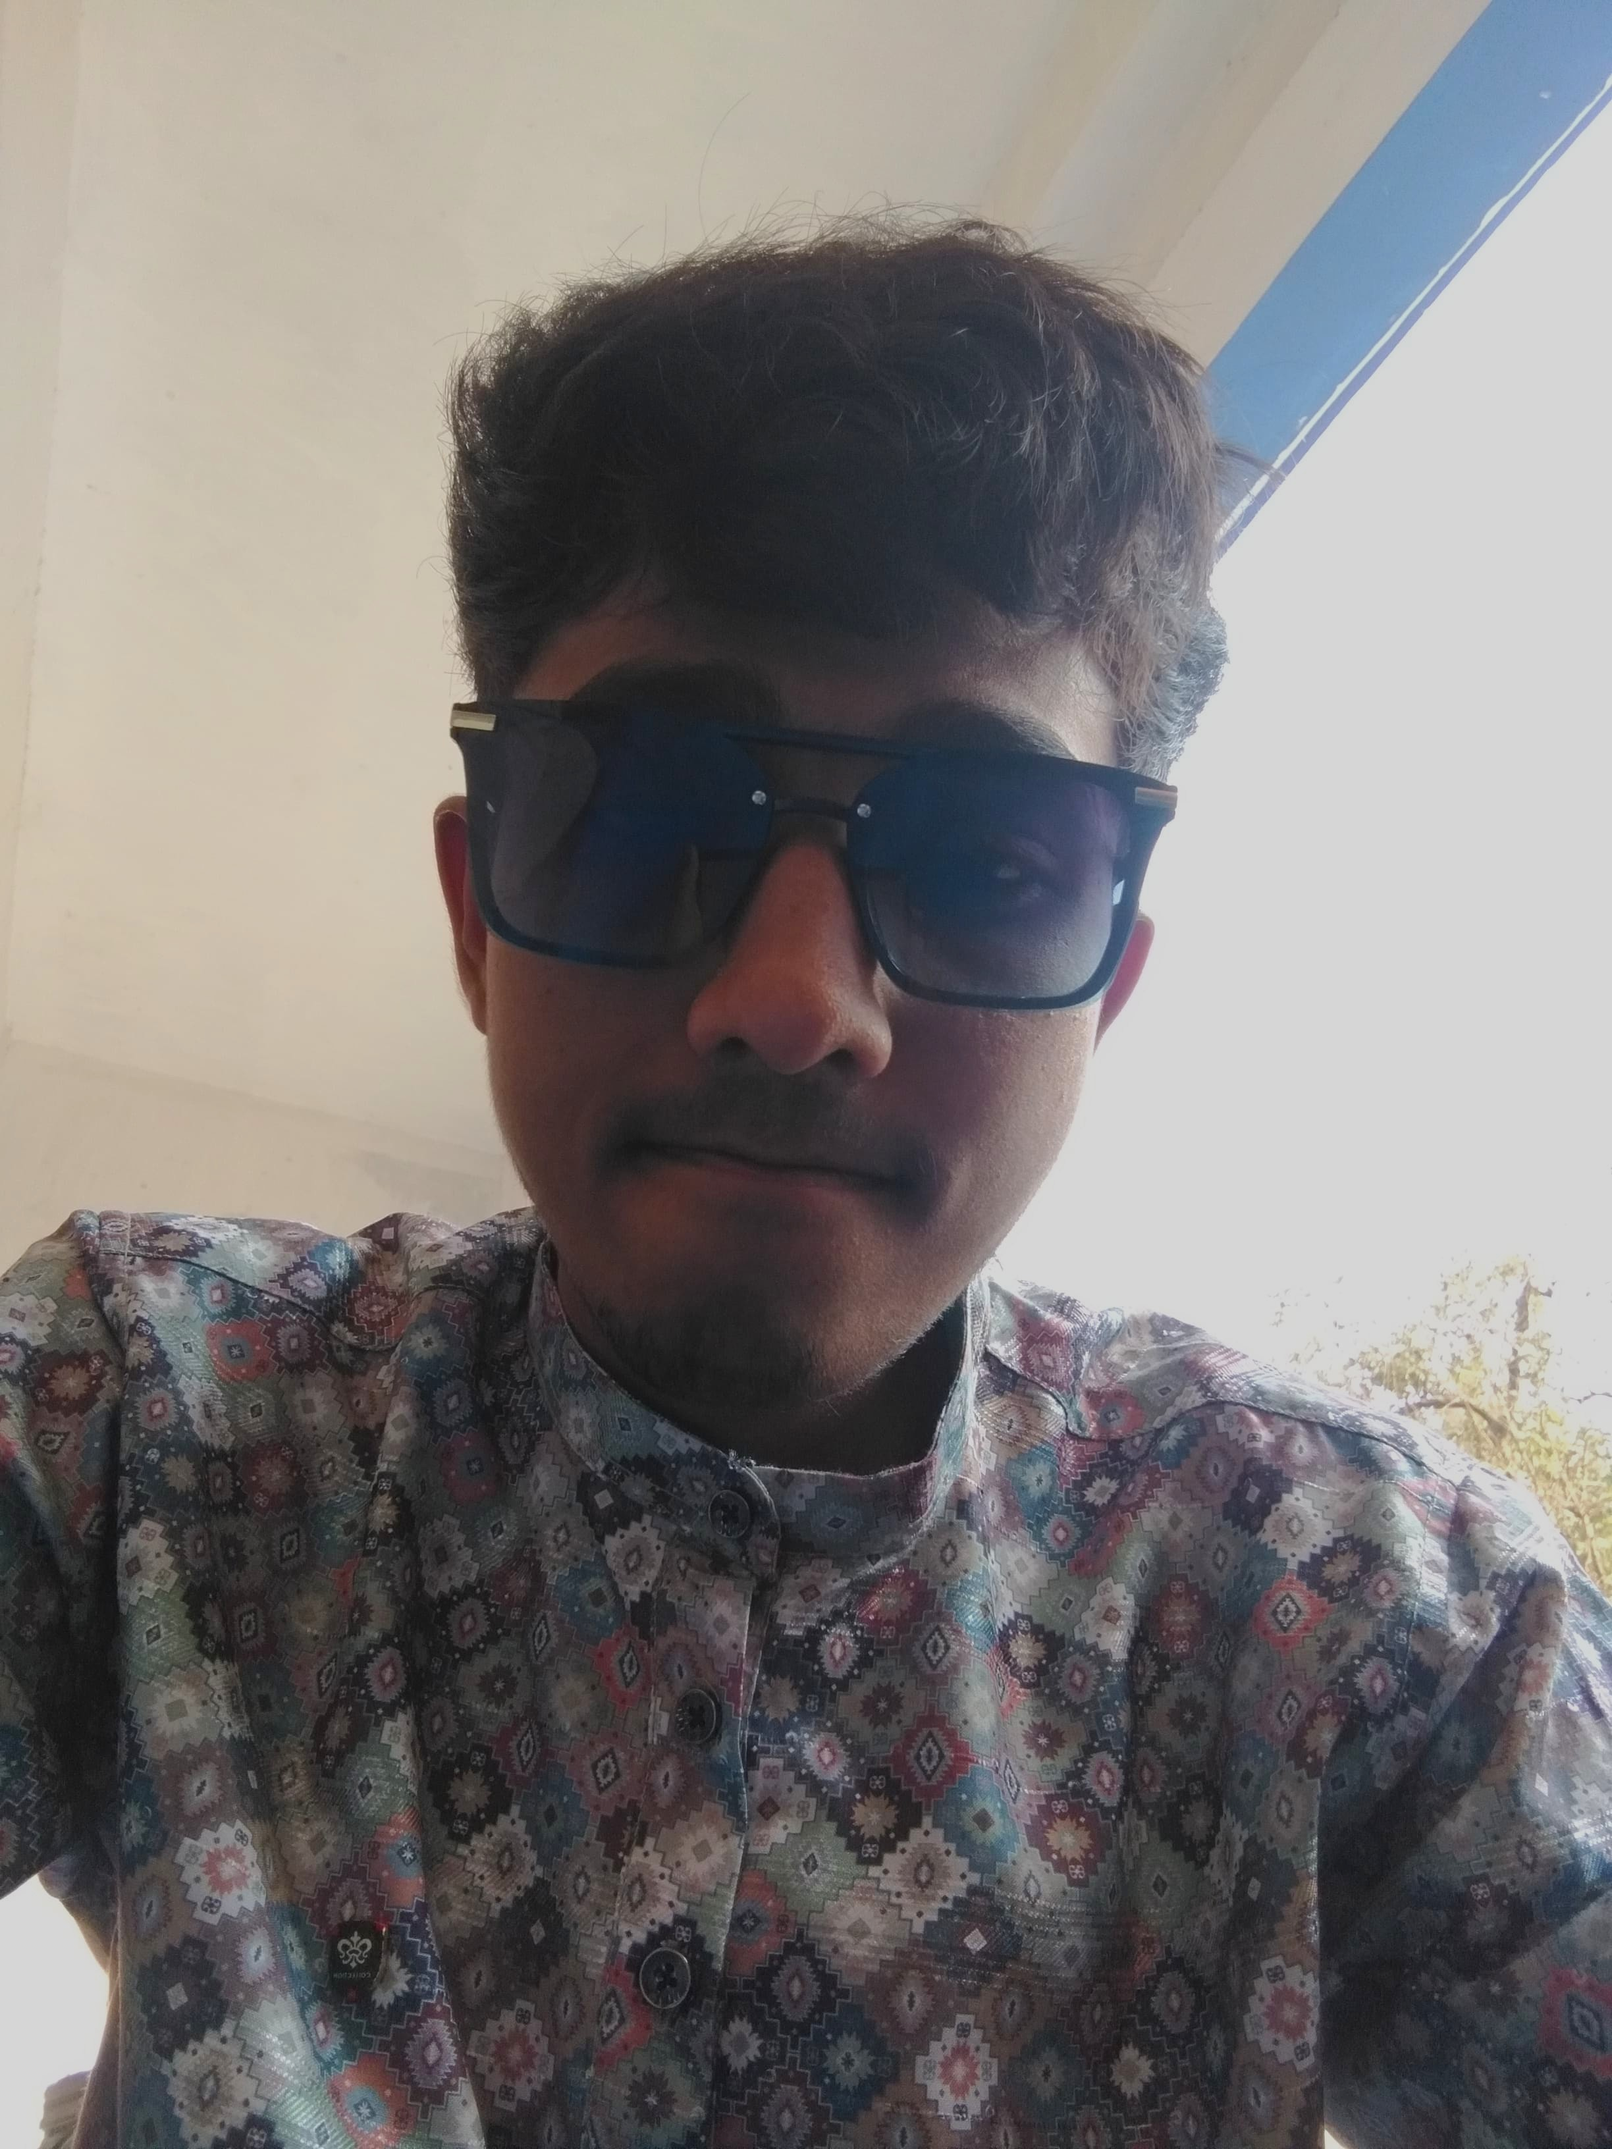
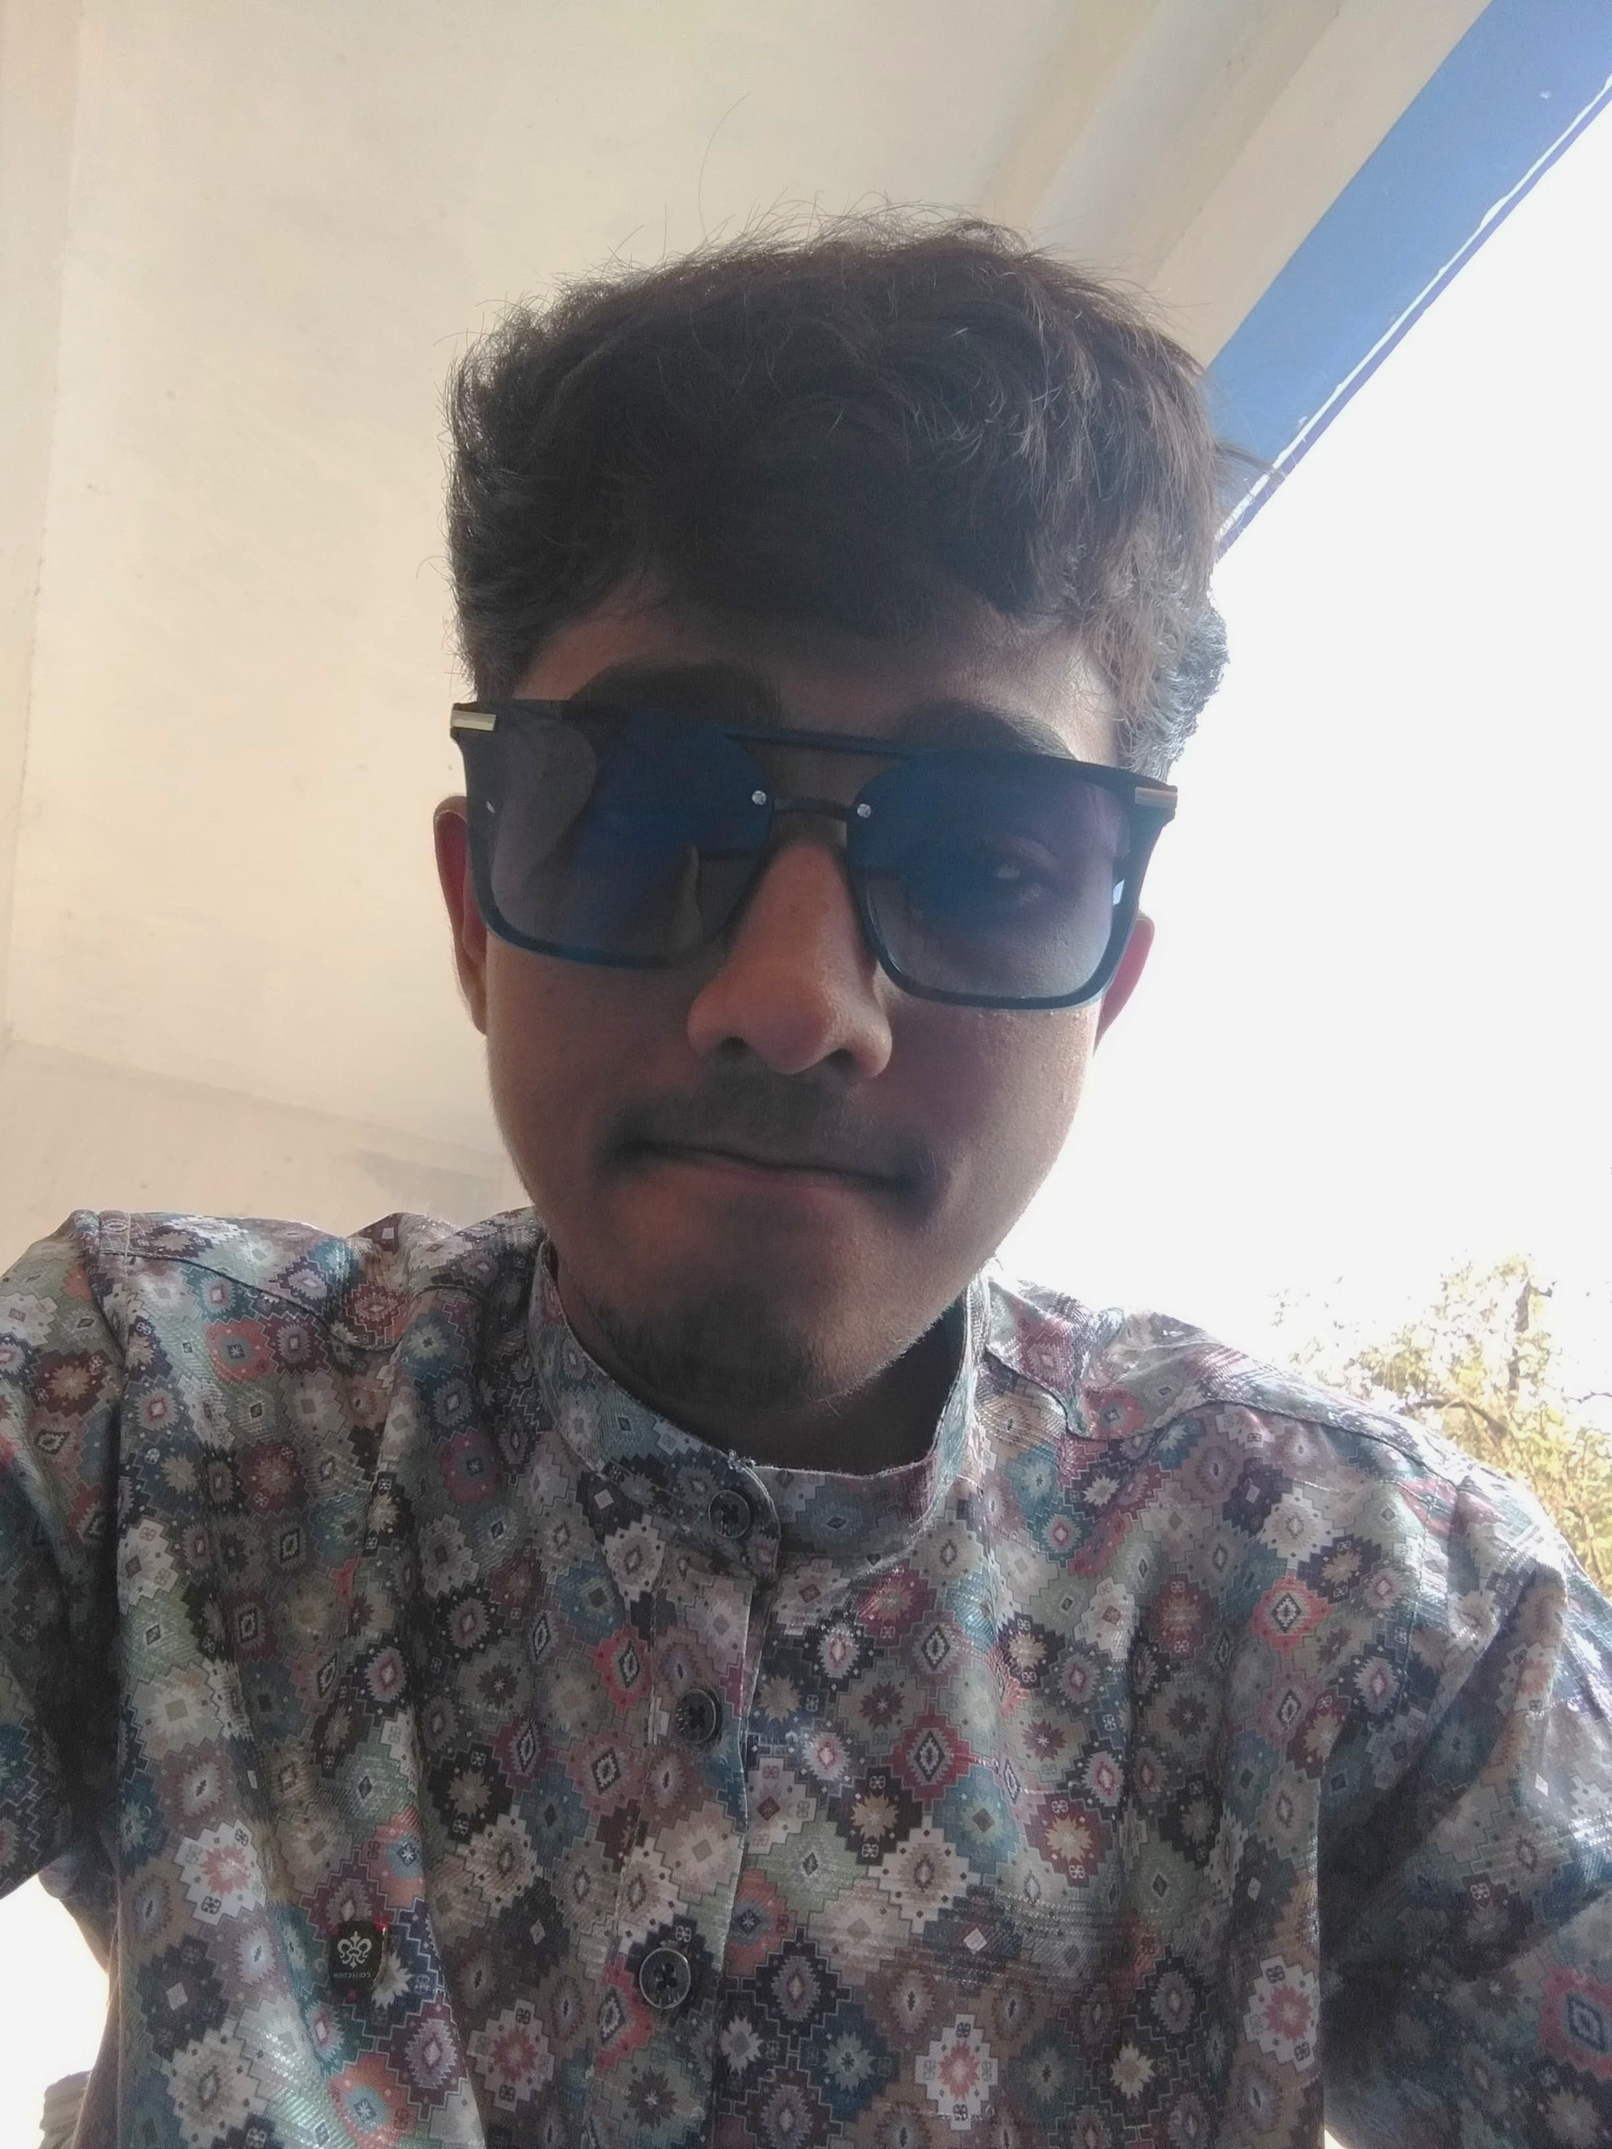
fix: countdown timer, add notes, update profile img

diff --git a/src/components/sections/MomentCard.jsx b/src/components/sections/MomentCard.jsx
@@ -21,11 +21,11 @@ const EventCard = ({ event, onClick }) => {
         }}
       >
         {/* Background Texture Layers */}
-        <div className="absolute inset-0 bg-[#f9f5eb]" style={{ backgroundImage: "url('https://www.transparenttextures.com/patterns/cream-paper.png')" }}></div>
+        <div className="absolute inset-0 bg-white" style={{ backgroundImage: "url('https://www.transparenttextures.com/patterns/rice-paper.png')" }}></div>
         
         {/* Ruled lines overlay */}
         <div 
-          className="absolute inset-0 opacity-30 pointer-events-none"
+          className="absolute inset-0 opacity-40 pointer-events-none"
           style={{
              backgroundImage: "repeating-linear-gradient(transparent, transparent 27px, #6098cc 27px, #6098cc 28px)",
              backgroundSize: "100% 28px",
@@ -34,11 +34,11 @@ const EventCard = ({ event, onClick }) => {
         ></div>
 
         {/* Red vertical margin line for classical notebook effect */}
-        <div className="absolute left-8 top-0 bottom-0 w-[1px] bg-red-800/20 pointer-events-none"></div>
-        <div className="absolute left-[34px] top-0 bottom-0 w-[1px] bg-red-800/10 pointer-events-none"></div>
+        <div className="absolute left-8 top-0 bottom-0 w-[1px] bg-red-800/30 pointer-events-none"></div>
+        <div className="absolute left-[34px] top-0 bottom-0 w-[1px] bg-red-800/20 pointer-events-none"></div>
 
         {/* Vintage Round Stamp (e.g. for Category) */}
-        <div className="absolute -top-3 -right-3 w-[72px] h-[72px] border-[2.5px] border-red-800/40 rounded-full flex items-center justify-center rotate-[-15deg] z-20 mix-blend-multiply opacity-80 shadow-sm pointer-events-none">
+        <div className="absolute -top-3 -right-3 w-[72px] h-[72px] border-[2.5px] border-red-800/40 rounded-full flex items-center justify-center rotate-[-15deg] z-20 mix-blend-multiply opacity-90 shadow-sm pointer-events-none">
            <div className="border-[1.5px] border-dashed border-red-800/40 rounded-full w-[60px] h-[60px] flex items-center justify-center text-center leading-none">
              <span className="text-[10px] font-bold text-red-800/60 uppercase tracking-tighter block mt-0.5">
                MCET<br/>{event.category?.substring(0, 8)}<br/>★
@@ -61,7 +61,7 @@ const EventCard = ({ event, onClick }) => {
             {/* The Image */}
             <div className="overflow-hidden">
                <div 
-                 className="w-full aspect-[16/9] bg-cover bg-center border border-black/10 sepia-[0.15] transition-transform duration-700 group-hover:scale-[1.05] group-hover:sepia-0"
+                 className="w-full sm:w-[90%] aspect-[16/9] bg-cover bg-center border border-black/10 sepia-[0.15] transition-transform duration-700 group-hover:scale-[1.05] group-hover:sepia-0"
                  style={{ backgroundImage: (event.gallery[0]?.startsWith('http') || event.gallery[0]?.startsWith('/')) ? `url('${event.gallery[0]}')` : (event.gallery[0] || 'linear-gradient(to bottom, #d4a373, #faedcd)') }}
                >
                   <div className="w-full h-full bg-[#3e2723]/10 mix-blend-multiply transition-opacity duration-500 group-hover:opacity-0"></div>
@@ -80,7 +80,7 @@ const EventCard = ({ event, onClick }) => {
           </h3>
           
           {/* Metadata: Date & People tagged */}
-          <div className="flex flex-wrap items-center gap-x-4 gap-y-2 text-[9px] text-[#786b5b] font-sans tracking-[0.15em] font-bold uppercase mb-2 mt-1">
+          <div className="flex flex-wrap items-center gap-x-4 gap-y-2 text-[10px] text-[#786b5b] font-sans tracking-[0.15em] font-bold uppercase mb-2 mt-1">
               <span className="flex items-center gap-1.5 bg-[#f0eadd] px-2 py-0.5 rounded-sm"><Calendar size={11} className="text-red-800/60" /> {event.date}</span>
               {event.taggedPeople?.length > 0 && (
                 <span className="flex items-center gap-1.5 bg-[#f0eadd] px-2 py-0.5 rounded-sm"><Users size={11} className="text-indigo-800/60" /> {event.taggedPeople.length}</span>
@@ -88,7 +88,7 @@ const EventCard = ({ event, onClick }) => {
           </div>
           
           {/* Description */}
-          <p className="font-['Caveat'] text-[1.4rem] text-[#332b21] leading-[28px] opacity-95 flex-grow line-clamp-3 my-2 pt-1">
+          <p className="font-['Caveat'] text-2xl text-[#332b21] leading-[28px] opacity-95 flex-grow line-clamp-3 my-2 pt-1">
             {event.description}
           </p>
 

diff --git a/src/data/notes.js b/src/data/notes.js
@@ -1,50 +1,57 @@
 export const memoriesData = [
     {
       id: 1,
-      author: "Soumyajit",
-      content: "Came here chasing degrees, but leaving with memories. 'Moments never returns' - but somewhere in those fleeting days of college and hostel life, I discovered parts of me I didn’t know existed. Wherever life takes me next, a part of me will always stay back here, for sure... 💞",
+      author: "Soumyajit🫥",
+      content: "How lucky I am to have something that makes saying goodbye this hard! Thank you for every moment, every memory. Wherever life takes you, stay well!...To y'all - 'I love you 3000'.  🌻",
       image: "",
       timestamp: "2026-01-28T17:26:00Z",
     },
     {
       id: 2,
-      author: "Anoushka",
+      author: "Anoushka✨",
       content: "Different journeys, shared time - wishing everyone the best ahead! 😇",
       image: "",
       timestamp: "2026-04-02T23:05:00Z",
     },
     {
       id: 3,
-      author: "Bapi",
+      author: "Bapi🧩",
       content: "Can’t believe these 4 years went by so fast… hostel life with you guys was honestly the best time of my life. All the late-night talks, fun, and crazy memories—I’m really going to miss everything. You guys are not just friends, you’re like family to me. No matter where we go, these memories will always stay with me. Stay in touch always, love you all 💙",
       image: "",
       timestamp: "2026-04-04T20:28:00Z",
     },
     {
       id: 4,
-      author: "Srija",
+      author: "Srija📚",
       content: "Four years, countless memory, endless laughter... wishing us the success we deserve as we step into the new chapter. 🌟",
       image: "",
       timestamp: "2026-04-04T20:28:00Z",
     },
     {
       id: 5,
-      author: "Nurful",
+      author: "Nurful🧑💻",
       content: "As our journey at MCET in the Computer Science & Engineering department comes to an end, we carry with us countless memories that will last a lifetime. From late-night coding sessions and project deadlines to friendships, laughter, and unforgettable moments, these years have shaped who we are today. Though we step into new paths and challenges, the bond we’ve built here will always remain strong. MCET will forever hold a special place in our hearts. Thank you for the memories, the lessons, and the journey. Farewell to a chapter.🫡",
       image: "",
       timestamp: "2026-04-05T18:33:00Z",
     },
     {
       id: 6,
-      author: "Priyobroto",
+      author: "Priyobroto🤓",
       content: "My life at MCET was full of unforgettable memories. I deeply miss my friends—the laughter, the stress, and those crazy exam days. They stood beside me, helped me through backlogs, and even in those risky cheating moments. We survived everything together. Now, those days are gone, but the bond and memories still stay in my heart forever. ❤",
       image: "",
       timestamp: "2026-04-05T18:36:00Z",
     },
     {
       id: 7,
-      author: "Shirsendu",
+      author: "Shirsendu😎",
       content: "College life isn’t just about classes—it’s about the memories we create in between. Friends become family, turning ordinary days into unforgettable stories. In the end, it’s the laughter, chaos, and togetherness that we carry forever. 🤟🏻",
+      image: "",
+      timestamp: "2026-04-05T23:26:00Z",
+    },
+    {
+      id: 8,
+      author: "Kriti🌸",
+      content: "'Kuch logon ke sath sirf waqt bitane se hi...sab thik ho jata hain' - here's to the people and place that has filled my cup✨",
       image: "",
       timestamp: "2026-04-05T23:26:00Z",
     },

diff --git a/src/data/phoenix.js b/src/data/phoenix.js
@@ -44,23 +44,14 @@ export const phoenixData = {
       author: "Subhodeep Chakraborty",
       content: [
         "শুনলাম তারা তোমায় নাকি সন্মান দেবে?",
-
         "সে দিক তাতে ভালোই হবে, তাদের এতদিন পর মনে পড়েছে দেশবাসীর প্রাণে সুভাষ রয়েছে।",
-
         "তোমায় নিয়ে চলছে এখন ভীষণ রাজনীতি, ভাবিনি এদেশ করবে তোমার এমন পরিণতি।",
-
         "এ বলে নেতাজি আমার দলের তো ও বলে আমার, রাজনীতিতে ভুলেই গেছে নেতাজি তো সবার।",
-
         "স্বাধীনতা তুমি এনেছো দেশে দেশ মা আজ তোমায় ডাকছে ভালোবেসে, ফিরবে তুমি এদেশেতেই মনেতে আশা রাখি তুমি তো নেতাজী, জানি তুমি দেবে না মোদের ফাঁকি।",
-
         "বাড়িতে বাড়িতে সবাই নেতা কেও রাম তো কেও ফুলে পোতা মুখেই তাদের বড়ো বড়ো কথা কাজের বেলায় তারাই লাপাতা।",
-
         "সাহস এদের একদমই নেই শুধুই আছে ভাষণ এরা নাকি সব নেতা মন্ত্রী এরা করছে দেশ শাসন।",
-
         "তুমি নাকি এদের দলের, শুনলেও হাসি পায় আরে নেতাজি হতে গেলে সাহস লাগে রে ভাই।",
-
         "স্বাধীন হয়েও পরাধীন এদেশ ভুলেছে স্বাধীনতার স্বাদ জানি তুমি আসবে আবার আহা এ গন্ধ যে স্বাধীনতার",
-
         "নেতা মন্ত্রী তো অনেক এসেছে গেছে সবার কাছে একটাই প্রশ্ন, ' বলছি সুভাষ আছে? '"
       ]
     }

diff --git a/src/pages/OurNotes.jsx b/src/pages/OurNotes.jsx
@@ -13,8 +13,8 @@ const StickyNote = ({ post }) => {
   // Shrink font for longer content so it stays readable without blowing up the card
   const textSize = 'text-2xl';
 
-  // Cap card height and allow scroll for very long notes (>300 chars)
-  const contentStyle = len > 300
+  // Cap card height and allow scroll for very long notes (>303 chars)
+  const contentStyle = len > 303
     ? { maxHeight: '260px', overflowY: 'auto', paddingRight: '4px' }
     : {};
 
@@ -55,7 +55,7 @@ const StickyNote = ({ post }) => {
           className={`font-['Caveat'] ${textSize} mt-4 mb-4 leading-relaxed text-[#2c3e50] w-full text-center styling-scrollbar`}
           style={contentStyle}
         >
-          " {post.content} "
+          "{post.content}"
         </div>
 
         {post.image && (

diff --git a/src/data/cast.js b/src/data/cast.js
@@ -58,7 +58,7 @@ export const peopleData =
   {
     id: 6,
     name: "Bapi Sarkar",
-    nickname: "Connector🔗",
+    nickname: "Connector🧩",
     roll: "10600122001",
     photo: "/images/cast/bapi.jpeg",
     department: "Computer Science",
@@ -168,7 +168,7 @@ export const peopleData =
   {
     id: 16,
     name: "Nurful Shaikh",
-    nickname: "InfoBank📊",
+    nickname: "Informer🧑💻",
     roll: "10600122003",
     photo: "/images/cast/nurful.png",
     department: "Computer Science",

diff --git a/src/pages/Prologue.jsx b/src/pages/Prologue.jsx
@@ -302,7 +302,7 @@ const Prologue = () => {
              subtitle="Time left until we throw our caps and say our goodbyes."
              eyebrow="Graduation Day"
            />
-           <CountdownTimer targetDate="2026-07-17T00:00:00" />
+           <CountdownTimer targetDate="2026-07-17T23:59:59" />
            <p className="text-center font-['Caveat'] text-3xl text-amber-400 mt-12 drop-shadow-md">
               "Don't cry because it's over, smile because it happened."
            </p>

diff --git a/src/data/moments.js b/src/data/moments.js
@@ -31,7 +31,7 @@ export const eventsData = [
       title: "CORUS 2K25 Event",
       date: "Jul 2025",
       category: "Fest",
-      description: "From planning to perfection - CORUS 2K25 was ours, we made it happen! 🎉",
+      description: "From planning to perfection - CORUS 2K25 was ours, and we made it happen! 🎉",
       gallery: ["/images/scrapbook/27.jpg"],
       taggedPeople: ["Hulk", "Underoos", "Lebowski", "Kriti", "Legolas", "Thumblina", "Bapi", "Soumyajit"]
     },

diff --git a/src/pages/TheCast.jsx b/src/pages/TheCast.jsx
@@ -131,7 +131,7 @@ const TheCast = () => {
                 initial={{ opacity: 0, y: 20 }}
                 animate={{ opacity: 1, y: 0 }}
                 exit={{ opacity: 0, y: -20 }}
-                className="grid grid-cols-1 md:grid-cols-2 lg:grid-cols-3 gap-8"
+                className="grid grid-cols-1 md:grid-cols-2 gap-8"
               >
                 {eventsData.map((event) => (
                   <MomentCard key={event.id} event={event} onClick={() => {}} />
